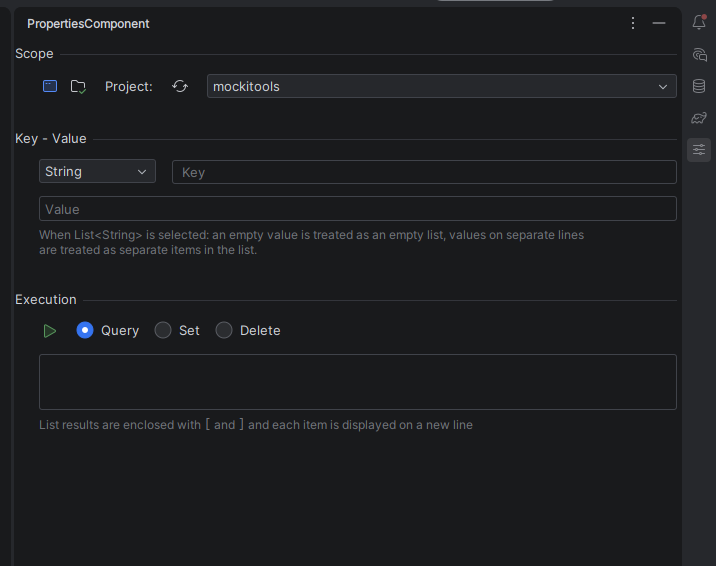
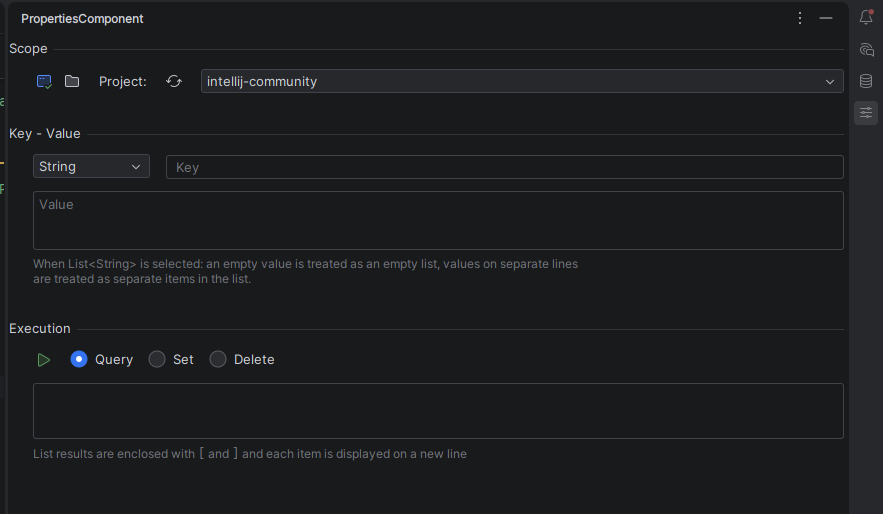
Increase the Value field's height in the PropertiesComponent tool window

diff --git a/src/main/kotlin/com/picimako/justkitting/properties/PropertiesComponentPanel.kt b/src/main/kotlin/com/picimako/justkitting/properties/PropertiesComponentPanel.kt
@@ -23,6 +23,7 @@ import com.intellij.ui.dsl.builder.Row
 import com.intellij.ui.dsl.builder.actionButton
 import com.intellij.ui.dsl.builder.bind
 import com.intellij.ui.dsl.builder.panel
+import com.intellij.ui.dsl.builder.rows
 import com.intellij.ui.dsl.builder.text
 import com.intellij.ui.dsl.listCellRenderer.listCellRenderer
 import com.picimako.justkitting.ServiceLevelDecider.ServiceLevel
@@ -107,6 +108,7 @@ class PropertiesComponentPanel {
                     }
                     row {
                         textArea()
+                            .rows(3) //Initial custom height, so that it is apparent that the field is a multi-row area
                             .text(settings.value)
                             .apply { component.emptyText.text = message("pc.key.value.value.empty.text") }
                             .align(AlignX.FILL)
